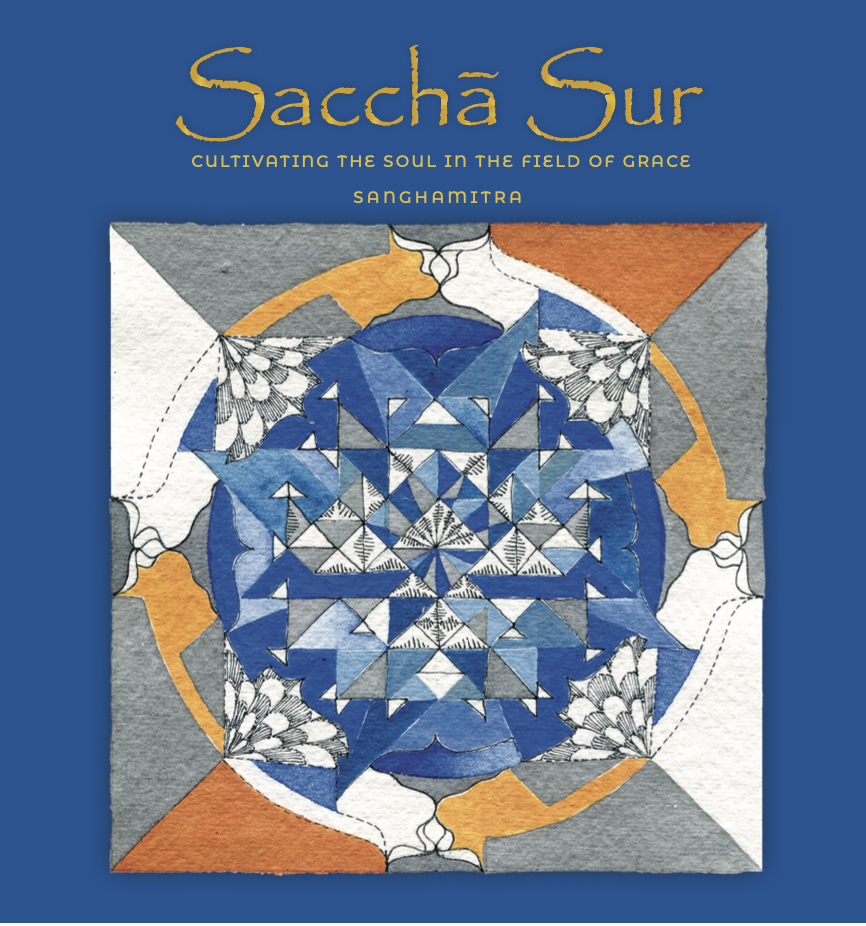
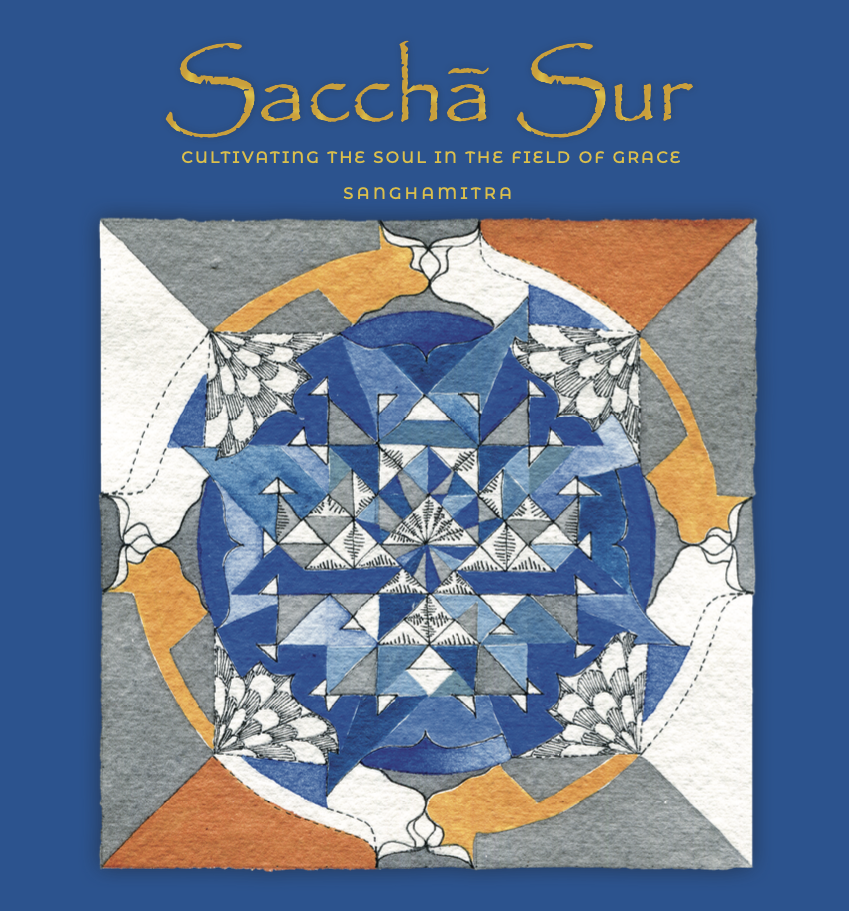
Update content and design

diff --git a/src/app/components/hero.tsx b/src/app/components/hero.tsx
@@ -3,7 +3,9 @@ import { useState } from 'react'
 import Image from 'next/image'
 import bookCover from '@/../public/images/book-cover.png'
 import logo from '@/../public/images/tell-me-a-story-2.png'
-
+import localFont from 'next/font/local'
+const papyrus = localFont({ src: './papyrus.ttf' })
+const ayuthaya = localFont({ src: './Ayuthaya.ttf' })
 
 import Preview from '@/app/components/preview'
 
@@ -35,18 +37,18 @@ export default function Hero() {
                     <div className='flex flex-wrap -m-8'>
                         <div className='w-full md:w-2/3 p-8'>
                             <h1
-                                className='mb-6 text-6xl font-bold font-heading md:max-w-3xl leading-none text-sky-600'>
-                                Stories are meant to be told and retold
+                                className='mb-6 text-5xl font-bold font-heading md:max-w-3xl leading-none text-sky-600'>
+                                <span className={papyrus.className}>Stories are meant to be <br/>told and retold</span>
                             </h1>
                             <p
-                                className='mb-11 text-gray-900 font-medium md:max-w-xl text-2xl'>
-                                An evocative collection of generational wisdom inspired by great artists, to help you cultivate your soul in a field of grace.
+                                className='mb-11 text-gray-700 font-medium md:max-w-xl text-lg'>
+                                <span className={ayuthaya.className}>An evocative collection of generational wisdom to help you cultivate your soul in the field of grace.</span>
                             </p>
                             <div className='flex flex-wrap -m-2.5 mb-20'>
                                 <div className='w-full md:w-auto p-2.5'>
                                     <div className='block'>
                                         <a href="https://pages.razorpay.com/pl_N6TrGb0E9gozlm/view"
-                                            className='block py-4 px-6 w-full text-white font-semibold border rounded-xl focus:ring transition ease-in-out duration-200 text-base font-medium focus:ring-gray-50 bg-orange-500 border-yellow-600 focus:ring-yellow-400 hover:bg-orange-600'
+                                            className='block py-3 px-6 w-full text-white font-semibold border rounded-xl focus:ring transition ease-in-out duration-200 text-base font-medium focus:ring-gray-50 bg-orange-500 border-yellow-600 focus:ring-yellow-400 hover:bg-orange-600'
                                             
                                         >
                                             Buy the Book
@@ -57,7 +59,7 @@ export default function Hero() {
                                 <div className='w-full md:w-auto p-2.5'>
                                     <div className='block'>
                                         <button
-                                            className='py-4 px-9 w-full font-semibold border border-gray-300 hover:border-gray-400 rounded-xl focus:ring focus:ring-gray-50 bg-white hover:bg-gray-100 transition ease-in-out duration-200'
+                                            className='py-3 px-9 w-full font-semibold border border-gray-300 hover:border-gray-400 rounded-xl focus:ring focus:ring-gray-50 bg-white hover:bg-gray-100 transition ease-in-out duration-200'
                                             type='button'
                                             onClick={() => setOpen(true)}
                                         >
@@ -84,32 +86,8 @@ export default function Hero() {
                             </div>
                         </div>
                         <div className='-mt-16 w-full md:w-1/3 p-8 pb-16'>
-                            <div className='inline-block mb-6 px-2 py-1 font-semibold bg-orange-100 rounded-full'>
-                                <div className='flex flex-wrap items-center -m-1'>
-                                    <div className='w-auto p-1'>
-                                        👋 The Book that inspired us
-                                    </div>
-                                    <div className='w-auto p-1'>
-                                        <svg
-                                            width={15}
-                                            height={15}
-                                            viewBox='0 0 15 15'
-                                            fill='none'
-                                            xmlns='http://www.w3.org/2000/svg'
-                                        >
-                                            <path
-                                                d='M8.66667 3.41675L12.75 7.50008M12.75 7.50008L8.66667 11.5834M12.75 7.50008L2.25 7.50008'
-                                                stroke='black'
-                                                strokeWidth='1.5'
-                                                strokeLinecap='round'
-                                                strokeLinejoin='round'
-                                            />
-                                        </svg>
-                                    </div>
-                                </div>
-                            </div>
                             <Image
-                                className='shadow shadow-md transform hover:-translate-y-16 transition ease-in-out duration-1000'
+                                className='shadow shadow-md'
                                 src={bookCover}
                                 alt=''
                             />

diff --git a/src/app/components/testimonials.tsx b/src/app/components/testimonials.tsx
@@ -1,4 +1,6 @@
 import Image from 'next/image'
+import localFont from 'next/font/local'
+const papyrus = localFont({ src: './papyrus.ttf' })
 
 export default function Testimonials() {
     return (
@@ -7,18 +9,18 @@ export default function Testimonials() {
         <div className='relative z-10 container px-4 mx-auto'>
           <div className='flex flex-wrap justify-between items-end -m-2 mb-12'>
             <div className='w-auto p-2'>
-              <h2 className='text-6xl font-bold font-heading tracking-px-n text-sky-600'>
-                What readers say!
+              <h2 className='text-5xl font-bold font-heading tracking-px-n text-sky-600'>
+                <span className={papyrus.className}>What readers say!</span>
               </h2>
             </div>
             <div className='w-auto p-2' />
           </div>
           <div className='flex flex-wrap -m-2'>
-            <div className='w-full md:w-1/2 lg:w-1/3 p-2 '>
+            <div className='w-full md:w-1/2 lg:w-1/4 p-2 '>
               <div className='px-8 py-6 h-full bg-white rounded-3xl shadow shadow-xl'>
                 <div className='flex flex-col justify-between h-full'>
                   <div className='mb-7 block'>
-                    <p className='text-lg'>
+                    <p>
                     In these days with so little wisdom and too much violence, Saccha Sur brings us back to the simplicity and complexity of being human.  Brings us back to ourselves and lays us back on the path to life, and love and being alive.  Out of the noise into oneness.  It is an invitation to be in relationship with the questions that are just more steppingstones on the endless path of being.    Awaken to love.
                     </p>
                   </div>
@@ -30,11 +32,11 @@ export default function Testimonials() {
                 </div>
               </div>
             </div>
-            <div className='w-full md:w-1/2 lg:w-1/3 p-2'>
+            <div className='w-full md:w-1/2 lg:w-1/4 p-2'>
               <div className='px-8 py-6 h-full bg-white rounded-3xl shadow shadow-xl'>
                 <div className='flex flex-col justify-between h-full'>
                   <div className='mb-7 block'>
-                    <p className='text-lg'>
+                    <p>
                     This book has taken me on an incredibly insightful journey! The stories opened my mind to new perspectives and offered profound wisdom. Its compelling narrative left a lasting impact, urging me to reflect on life in profound ways. A must-read for those seeking inspiration and a deeper understanding of the human experience.
                     </p>
                   </div>
@@ -47,17 +49,35 @@ export default function Testimonials() {
               </div>
             </div>
 
-            <div className='w-full md:w-1/2 lg:w-1/3 p-2'>
+            <div className='w-full md:w-1/2 lg:w-1/4 p-2'>
               <div className='px-8 py-6 h-full bg-white rounded-3xl shadow shadow-xl'>
                 <div className='flex flex-col justify-between h-full'>
                   <div className='mb-7 block'>
-                    <p className='text-lg'>
-                    As a mother, grand mother, and lifelong learner, I have truly appreciated the nuggets of eternal wisdom delivered by this book with exceptional clarity and brevity. Woven through the fabric of classical music, these stories are like the drone of a tanapura reminding me to live my life in harmony with “Saccha Sur” or notes of wisdom from the maestros.
+                    <p>
+                    As a mother, grand mother, and lifelong learner, I have truly appreciated the nuggets of eternal wisdom delivered by this book with exceptional clarity and brevity. Woven through the fabric of classical music, these stories are like the drone of a tanpura reminding me to live my life in harmony with “Saccha Sur” or notes of wisdom from the maestros.
                     </p>
                   </div>
                   <div className='block'>
                     <p>
                     <span className='font-bold'>Dr. Kalpana Merchant</span> <br/>Neuroscientist and R&D Executive.
+                    </p>
+                  </div>
+                </div>
+              </div>
+            </div>
+
+            <div className='w-full md:w-1/2 lg:w-1/4 p-2'>
+              <div className='px-8 py-6 h-full bg-white rounded-3xl shadow shadow-xl'>
+                <div className='flex flex-col justify-between h-full'>
+                  <div className='mb-7 block'>
+                    <p>
+                    Saccha Sur is a treasure of profound insights, offering deep wisdom, packaged as short, engaging stories. This book has earned its place of honor in my living room; it's become a ritual to randomly select a story and, invariably, I discover the exact lesson I need at that moment. Whether it's a reminder to live fully in the present or to approach life with a sense of wonder, each story has a way of striking a chord.
+                    </p>
+                  </div>
+                  <div className='block'>
+                    <p>
+                     
+                    <span className='font-bold'>Sanjiv Sidhu</span> <br/>Co-founder and Chairman o9 Solutions
                     </p>
                   </div>
                 </div>

diff --git a/src/app/components/faq.tsx b/src/app/components/faq.tsx
@@ -1,5 +1,7 @@
 import Image from 'next/image'
 import gradient from '@/../public/flaro-assets/images/faqs/gradient.svg'
+import localFont from 'next/font/local'
+const papyrus = localFont({ src: './papyrus.ttf' })
 
 export default function FAQ() {
     return (
@@ -13,11 +15,8 @@ export default function FAQ() {
           />
           <div className='relative z-10 container px-4 mx-auto'>
             <div className='md:max-w-4xl mx-auto'>
-              <p className='mb-7 text-sm text-indigo-600 text-center font-semibold uppercase tracking-px text-sky-600'>
-                Have any questions?
-              </p>
-              <h2 className='mb-16 text-6xl text-center font-bold font-heading tracking-px-n leading-none text-sky-600'>
-                Frequently Asked Questions
+              <h2 className='mb-16 text-5xl text-center font-bold font-heading tracking-px-n leading-none text-sky-600'>
+                <span className={papyrus.className}>Frequently Asked Questions</span>
               </h2>
               <div className='mb-11 flex flex-wrap -m-1'>
                 <div className='w-full p-1'>
@@ -26,12 +25,10 @@ export default function FAQ() {
                       <div className='flex flex-wrap justify-between -m-2'>
                         <div className='flex-1 p-2'>
                           <h3 className='mb-4 text-lg font-semibold leading-normal'>
-                            What is this book about?
+                            What is "Saccha Sur" all about?
                           </h3>
                           <p className='text-gray-600 font-medium'>
-                            Lorem ipsum dolor sit amet, to the consectr
-                            adipiscing elit. Volutpat tempor to the condi mentum
-                            vitae vel purus.
+                          Saccha Sur is a compilation of first hand experiences of Sanghmitra with the incredible gurus - Bhaskar and Freddy !  To the world, Bhaskar and Freddy, were phenomenal musicians; for Sanghmitra, they were Grace Incarnate. Music was the craft they taught, yet the flowering of the disciple was their sole objective. Every story in Saccha Sur, is a carefully curated vignette, carrying a drop of timeless truth that feeds the soul ! These stories are an invitation to transformation ...each one can be the beginning of something new !
                           </p>
                         </div>
                         <div className='w-auto p-2'>
@@ -62,8 +59,10 @@ export default function FAQ() {
                       <div className='flex flex-wrap justify-between -m-2'>
                         <div className='flex-1 p-2'>
                           <h3 className='text-lg font-semibold leading-normal'>
-                            Who is Sangamitra?
+                            Is "Saccha Sur" available for international shipping?  
                           </h3>
+                          <p>Yes, International shipping is available. Please click on this link to learn about the shipping charges to various countries. If your state or country is not mentioned, please write to us on this link with your order quantity, full address and telephone number and we will get back to you regarding the exact shipping cost. 
+      </p>
                         </div>
                         <div className='w-auto p-2'>
                           <svg
@@ -93,8 +92,10 @@ export default function FAQ() {
                       <div className='flex flex-wrap justify-between -m-2'>
                         <div className='flex-1 p-2'>
                           <h3 className='text-lg font-semibold leading-normal'>
-                            How can I order in bulk?
+                            How long does it take to receive the book after placing an order?
                           </h3>
+                          <p>Your copies will be shipped within 48hours of the realisation of the credit of your payment. For any questions, please click here to leave us a note. 
+      </p>
                         </div>
                         <div className='w-auto p-2'>
                           <svg
@@ -124,8 +125,10 @@ export default function FAQ() {
                       <div className='flex flex-wrap justify-between -m-2'>
                         <div className='flex-1 p-2'>
                           <h3 className='text-lg font-semibold leading-normal'>
-                            What is in the community?
+                          Can I track my order?
                           </h3>
+                          <p>Once your book is shipped, your tracking number and website will be shared with you on the email id that has been entered during the payment process. 
+      </p>
                         </div>
                         <div className='w-auto p-2'>
                           <svg

diff --git a/src/app/globals.css b/src/app/globals.css
@@ -18,10 +18,19 @@
 }
 
 #hero {
-  background: linear-gradient(145deg, white , white, transparent 70%) , url(/images/IMG_6172.jpg) no-repeat center;
+    background: linear-gradient(145deg, white , white, transparent 50%) , url(/images/bg2.jpg) no-repeat center;
+  /* background: linear-gradient(145deg, white , white, transparent 70%) , url(/images/IMG_6172f.jpg) no-repeat center; */
+  /* background:  url(/images/IMG_6172f.jpg) no-repeat center; */
+
   background-size: cover;
 }
 
 #community {
-  background: linear-gradient(306deg, transparent 20%, white , white) , url(/images/FL2.jpg) repeat right;
+  /* background: linear-gradient(306deg, transparent 20%, white , white) , url(/images/FL2.jpg) repeat right; */
+  /* background: linear-gradient(306deg, transparent 20%, white , white) , url(/images/bg.jpg) no-repeat right; */
+  background: url(/images/bg.jpg) no-repeat right;
+
+  /* background:  url(/images/FL2.jpg) no-repeat right; */
+  background-size: cover;
+
 }

diff --git a/src/app/layout.tsx b/src/app/layout.tsx
@@ -1,8 +1,8 @@
 import type { Metadata } from 'next'
 import { Inter } from 'next/font/google'
 import './globals.css'
-
-const inter = Inter({ subsets: ['latin'] })
+import localFont from 'next/font/local'
+const ayuthaya = localFont({ src: './components/Ayuthaya.ttf' })
 
 export const metadata: Metadata = {
   title: 'Create Next App',
@@ -16,7 +16,7 @@ export default function RootLayout({
 }) {
   return (
     <html lang="en">
-      <body className={inter.className}>{children}</body>
+      <body className={ayuthaya.className}>{children}</body>
     </html>
   )
 }
